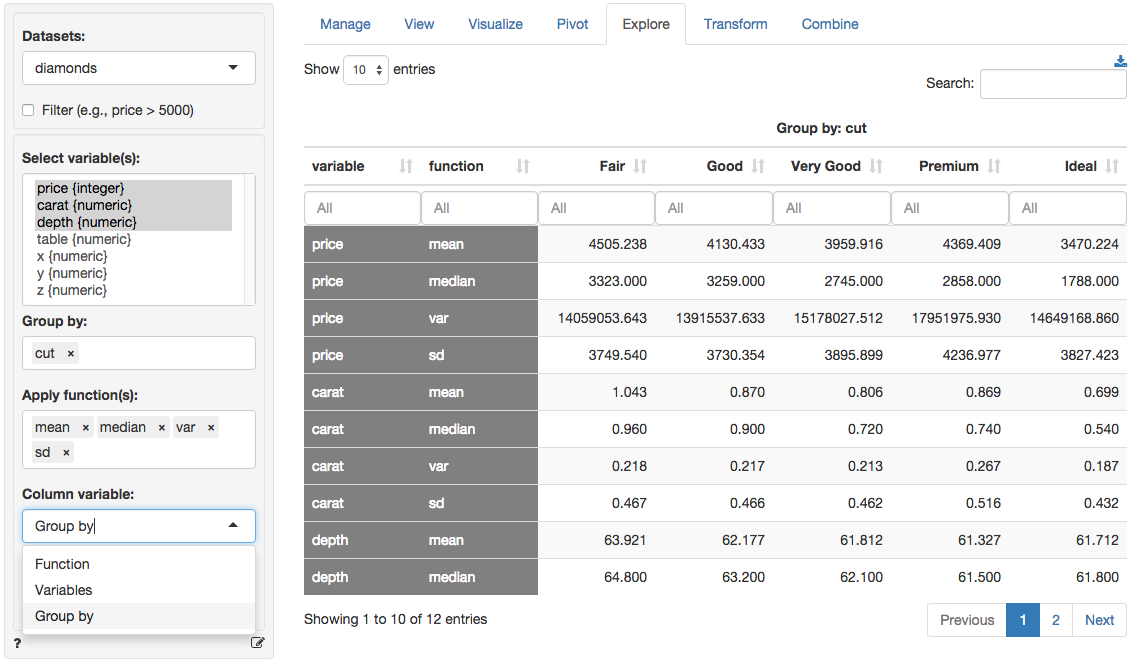
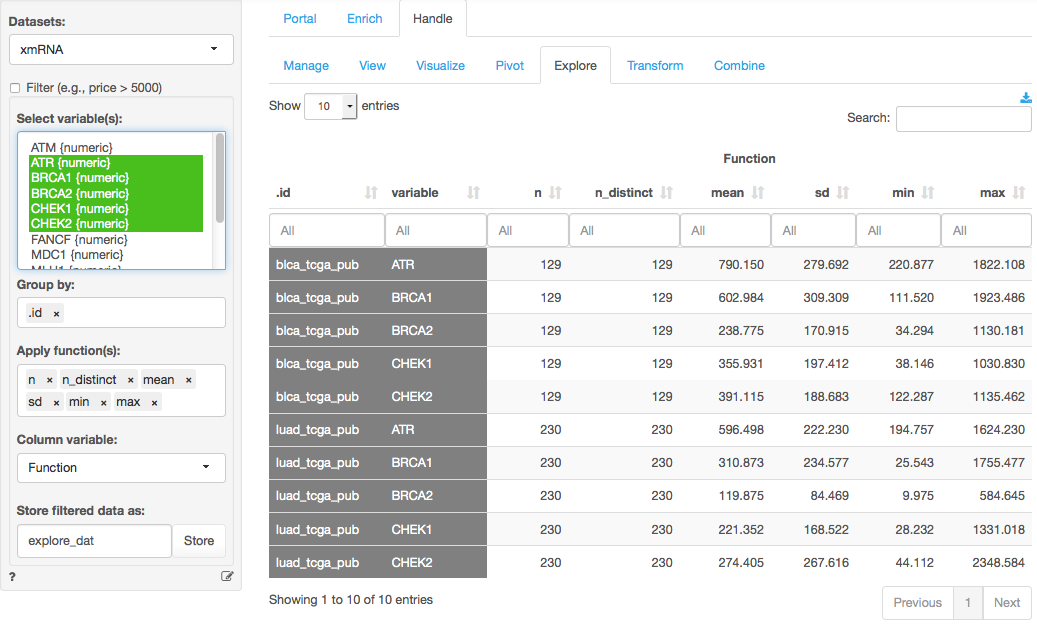
Documents

diff --git a/inst/base/tools/help/view.md b/inst/base/tools/help/view.md
@@ -2,7 +2,7 @@
 
 ### Datasets
 
-Choose one of the datasets from the `Datasets` dropdown. Files are loaded into Radiant through the Manage tab.
+Choose one of the datasets from the `Datasets` dropdown. Files are loaded into bioCancer through the Manage tab.
 
 ### Select columns
 
@@ -18,13 +18,11 @@ Click on a column header in the table to sort the data by the values of that var
 
 ### Filter
 
-There are several ways to select a subset of the data to view. The `Filter` box on the left (click the check-box first) can be used with `>` and `<` signs and you can also combine subset commands. For example, `x > 3 & y == 2` would show only those rows for which the variable `x` has values larger than 3 **and** for which `y` has values equal to 2. Note that in R, and most other programming languages, `=` is used to _assign_ a value and `==` to evaluate if the value of a variable is equal to some other value. In contrast `!=` is used to determine if a variable is _unequal_ to some value. You can also use expressions that have an **or** condition. For example, to select rows where `Salary` is smaller than \$100,000 and larger than \$20,000 use `Salary > 20000 & Salary < 100000`. `&` is the symbol for **and**. The table below gives an overview of common operators.
+There are several ways to select a subset of the data to view. The `Filter` box on the left (click the check-box first) can be used with `>` and `<` signs and you can also combine subset commands. For example, `x > 3 & y == 2` would show only those rows for which the variable `x` has values larger than 3 **and** for which `y` has values equal to 2. Note that in R, and most other programming languages, `=` is used to _assign_ a value and `==` to evaluate if the value of a variable is equal to some other value. In contrast `!=` is used to determine if a variable is _unequal_ to some value. You can also use expressions that have an **or** condition. For example, to select rows where `mutation frequency` is smaller than 20 and larger than 10 use `FreqMut > 10 & FreqMut < 20`. `&` is the symbol for **and**. The table below gives an overview of common operators.
 
-It is also possible to filter using dates. For example, to choose only those dates before June 1st, 2014 enter `Date < "2014-6-1"` into the filter box and press return.
+You can also use string matching to select rows. For example, type `grepl("lu", Diseases)` to select rows with `lung` Cancers. This search is case sensitive by default. For case insensitive search you would use `grepl("TCGA", name, ignore.case = TRUE)`. Type your statement in the `Filter`  box and press return to see the result on screen or an error below the box if the expression is invalid.
 
-You can also use string matching to select rows. For example, type `grepl("ood", cut)` to select rows with `Good` or `Very good` cut. This search is case sensitive by default. For case insensitive search you would use `grepl("GOOD", cut, ignore.case = TRUE)`. Type your statement in the `Filter`  box and press return to see the result on screen or an error below the box if the expression is invalid.
-
-It is important to note that these filters are _persistent_. A filter entered in one of the Data-tabs will also be applied to other tabs and to any analysis conducted through the Radiant menus. To deactivate a  filter uncheck the `Filter` check-box. To remove a filter simply erase it.
+It is important to note that these filters are _persistent_. A filter entered in one of the Data-tabs will also be applied to other tabs and to any analysis conducted through the bioCancer menus. To deactivate a  filter uncheck the `Filter` check-box. To remove a filter simply erase it.
 
 <table class='table table-condensed table-hover' style='width:30%;'>
  <thead>
@@ -71,10 +69,10 @@ It is important to note that these filters are _persistent_. A filter entered in
 
 ### Column filters and Search
 
-For variables that have a limited number of different values (i.e., a factor) you can select the levels to keep from the column filter below the variable name. For example, to filter on rows with ideal cut click in the box below the `cut` column header and select `Ideal` from the dropdown menu shown. You can also type a string into these column filters followed by return. Note that matching is case-insensitive. In fact, typing `eal` would produce the same result because the search will match any part of a string. Similarly, you can type a string to select observations for character variables (e.g., street names).
+For variables that have a limited number of different values (i.e., a factor) you can select the levels to keep from the column filter below the variable name. For example, to filter on rows with `CNA = -1`  click in the box below the `CNA` column header and select `-1` from the dropdown menu shown. You can also type a string into these column filters followed by return. Note that matching is case-insensitive. In fact, typing `1` would produce the same result because the search will match any part of a string. Similarly, you can type a string to select observations for character variables (e.g., street names).
 
-For numeric variables the column filter boxes have some special features that make them almost as powerful as the `Filter` box. For numerical and integer variables you can use `...` to indicate a range. For example, to select `Price` values between \$500 and \$2000 dollars type `500 ... 2000` and press return. The range is inclusive of the values typed. Furthermore, if we want to filter on `carat` `0.32 ...` will show only diamonds with carat values larger than or equal to 0.32. Numeric variables also have a slider that you can use to define the range of values to keep.
+For numeric variables the column filter boxes have some special features that make them almost as powerful as the `Filter` box. For numerical and integer variables you can use `...` to indicate a range. For example, to select `mRNA` values between 200 and 500  type `200 ... 500` and press return. The range is inclusive of the values typed. Furthermore, if we want to filter on `FreqMut` `20 ...` will show only Studies with mutation frequancy larger than or equal to 20. Numeric variables also have a slider that you can use to define the range of values to keep.
 
 If you want to get _really_ fancy you can use the search box on the top right to search across all columns in the data using **regular expressions**. For example, to find all rows that have an entry in _any_ column ending with the number 72 type `72$` (i.e., the `$` sign is used to indicate the end of an entry). For all rows with entries that start with 60 use `^60` (i.e., the `^` is used to indicate the first character in an entry). Regular expressions are incredibly powerful for search but this is a _big_ topic area. To learn more about regular expressions see this <a href="http://www.regular-expressions.info/tutorial.html" target="_blank">tutorial</a>.
 
-It is important to note that column sorting, column filters, and search are **not** persistent. To store these settings for use in other parts of Radiant press the `Store` button. You can store the data and settings under a different dataset name by changing the value in the text input to the left of the `Store` button. This feature can also be used to select a subset of variables to keep. Just select the ones you want to keep and press the `Store` button. For more control over the variables you want to keep or remove and to specify their order in the dataset use the `Data > Transform` tab.
+It is important to note that column sorting, column filters, and search are **not** persistent. To store these settings for use in other parts of bioCancer press the `Store` button. You can store the data and settings under a different dataset name by changing the value in the text input to the left of the `Store` button. This feature can also be used to select a subset of variables to keep. Just select the ones you want to keep and press the `Store` button. For more control over the variables you want to keep or remove and to specify their order in the dataset use the `Data > Transform` tab.

diff --git a/inst/base/tools/help/transform.md b/inst/base/tools/help/transform.md
@@ -1,4 +1,7 @@
-> Transform variables in data
+  robj <- load(file.path(r_path,"base/data/epiGenomics.rda"))
+  df <- get(robj)
+  r_data[["epiGenomics"]] <- df
+  r_data[["epiGenomics_descr"]] <- attr(df,'description')> Transform variables in data
 
 ### Transform command log
 
@@ -6,7 +9,7 @@ All transformations applied in the _Data > Transform_ tab can be _logged_. If, f
 
 <pre>
 ## transform variable
-r_data[["diamonds"]] <- mutate_each(r_data[["diamonds"]], funs(log), ext = "_log", price, carat)
+r_data[["epiGenomics"]] <- mutate_each(r_data[["epiGenomics"]], funs(log), ext = "_log", mRNA, Met450)
 </pre>
 
 This is an important feature if you need to recreate your results at some point in the future or you want to re-run a report with new, but similar, data. Even more important is that there is a record of the steps taken to generate all results.
@@ -19,7 +22,7 @@ Filter functionality must be turned off when transforming variables. If a filter
 
 ### Type
 
-When you select `Type` from the `Transformation type` drop-down another drop-down menu is shown that will allow you to change the type (or class) of one or more variables. For example, you can change a variable of type integer to a variable of type factor. Click the `Store` button to change variable(s) in the data set. A description of the transformations included in Radiant is provided below.
+When you select `Type` from the `Transformation type` drop-down another drop-down menu is shown that will allow you to change the type (or class) of one or more variables. For example, you can change a variable of type integer to a variable of type factor. Click the `Store` button to change variable(s) in the data set. A description of the transformations included in bioCancer is provided below.
 
 1. As factor: convert a variable to type factor (i.e., a categorical variable)
 2. As number: convert a variable to type numeric
@@ -42,7 +45,7 @@ When you select `Type` from the `Transformation type` drop-down another drop-dow
 
 ### Transform
 
-When you select `Transform` from the `Transformation type` drop-down another drop-down menu is shown that will allow you to apply common transformations to one or more variables in the data. For example, to take the (natural) log of a variable select the variable(s) you want to transform and choose `Log` from the `Apply function` drop-down. A new variable is created with the extension specified in the 'Variable name extension` text input (e.g,. `_log`). Make sure to press `return` after changing the extension. Click the `Store` button to add the variable(s) to the data set. A description of the transformation functions included in Radiant is provided below.
+When you select `Transform` from the `Transformation type` drop-down another drop-down menu is shown that will allow you to apply common transformations to one or more variables in the data. For example, to take the (natural) log of a variable select the variable(s) you want to transform and choose `Log` from the `Apply function` drop-down. A new variable is created with the extension specified in the 'Variable name extension` text input (e.g,. `_log`). Make sure to press `return` after changing the extension. Click the `Store` button to add the variable(s) to the data set. A description of the transformation functions included in bioCancer is provided below.
 
 1. Log: create a log-transformed version of the selected variable (i.e., log(x))
 2. Square: multiply a variable by itself (i.e., x^2)
@@ -148,13 +151,13 @@ Choose `Replace` from the `Transformation type` drop-down if you want to replace
 
 ### Clipboard
 
-It is possible to manipulate your data in a spreadsheet (e.g., Excel or Google sheets) and copy-and-paste the data back into Radiant. If you don't have the original data in a spreadsheet already use the clipboard feature in _Data > Manage_ so you can paste it into the spreadsheet or click the download icon on the top right of your screen in the _Data > View_ tab. Apply your transformations in the spreadsheet program and then copy the new variable(s), with a header label, to the clipboard (i.e., CTRL-C on windows and CMD-C on mac). Select `Clipboard` from the `Transformation type` drop-down and paste the new data into the `Paste from spreadsheet` box. It is key that new variable(s) have the same number of observations as the data in Radiant. To add the new variables to the data click `Store`.
+It is possible to manipulate your data in a spreadsheet (e.g., Excel or Google sheets) and copy-and-paste the data back into bioCancer. If you don't have the original data in a spreadsheet already use the clipboard feature in _Data > Manage_ so you can paste it into the spreadsheet or click the download icon on the top right of your screen in the _Data > View_ tab. Apply your transformations in the spreadsheet program and then copy the new variable(s), with a header label, to the clipboard (i.e., CTRL-C on windows and CMD-C on mac). Select `Clipboard` from the `Transformation type` drop-down and paste the new data into the `Paste from spreadsheet` box. It is key that new variable(s) have the same number of observations as the data in bioCancer. To add the new variables to the data click `Store`.
 
 > **Note:** Using the clipboard feature for data transformation is discouraged because it is not reproducible.
 
 ### Normalize
 
-Choose `Normalize` from the `Transformation type` drop-down to standardize one or more variables. For example, in the diamonds data we may want to express price of a diamond per-carat. Select `carat` as the normalizing variable and `price` in the `Select variable(s)` box. You will see summary statistics for the new variable (e.g., `price_carat`) in the main panel. Store changes by clicking the `Store` button.
+Choose `Normalize` from the `Transformation type` drop-down to standardize one or more variables. For example, in the epiGenomics data we may want to express mRNA of a Genes per-FreqMut. Select `FreqMut` as the normalizing variable and `mRNA` in the `Select variable(s)` box. You will see summary statistics for the new variable (e.g., `mRNA_FreqMut`) in the main panel. Store changes by clicking the `Store` button.
 
 ### Reorder or remove columns
 
@@ -174,4 +177,4 @@ It is common to have one or more variables in a dataset that have only unique va
 
 ### Show duplicates
 
-If there are duplicates in the data use `Show duplicates` to get a better sense for the data points that have the same value in multiple rows. If you want to explore duplicates using the _View_ tab make sure to `Store` them in a different dataset (i.e., make sure **not** to overwrite the data you are working on). If you choose to show duplicates based on all columns in the data only one of the duplicate rows will be shown. These rows are **exactly** the same so showing 2 or 3 isn't helpful. If, however, we look for duplicates based on a subset of the available variables Radiant will generate a dataset with **all** rows that are deemed similar.
+If there are duplicates in the data use `Show duplicates` to get a better sense for the data points that have the same value in multiple rows. If you want to explore duplicates using the _View_ tab make sure to `Store` them in a different dataset (i.e., make sure **not** to overwrite the data you are working on). If you choose to show duplicates based on all columns in the data only one of the duplicate rows will be shown. These rows are **exactly** the same so showing 2 or 3 isn't helpful. If, however, we look for duplicates based on a subset of the available variables bioCancer will generate a dataset with **all** rows that are deemed similar.

diff --git a/inst/base/tools/help/pivotr.md b/inst/base/tools/help/pivotr.md
@@ -2,9 +2,9 @@
 
 If you have used pivot-tables in Excel the functionality provided in the Pivot tab should be familiar to you. Similar to the Explore tab, you can generate summary statistics for variables in your data. You can also easily generate frequency tables. Perhaps the most powerful feature in Pivot is that you can describe the data _by_ one or more other variables.
 
-For example, with the `diamonds` data select `clarity` and `cut` from the Categorical variables drop-down. You can drag-and-drop the selected variables to change their order. The categories for the first variable will be the column headers. After selecting these two variables a frequency table of diamonds with different levels of clarity and quality of cut. Choose `Row`, `Column`, or `Total` from the Normalize drop-down to normalize the frequencies by row, column, or overall total. If a normalize option is selected it can be convenient to check the `Percentage` box to express the numbers as percentages. Choose `Color bar` or `Heat map` from the Conditional formatting drop-down to emphasize the highest frequency counts.
+For example, with the `epiGenomics` data select `Genes`, `Diseases` and `CNA`  from the Categorical variables drop-down. You can drag-and-drop the selected variables to change their order. The categories for the first variable will be the column headers. After selecting these three variables a frequency table of  data with different Diseases and Genes. Choose `Row`, `Column`, or `Total` from the Normalize drop-down to normalize the frequencies by row, column, or overall total. If a normalize option is selected it can be convenient to check the `Percentage` box to express the numbers as percentages. Choose `Color bar` or `Heat map` from the Conditional formatting drop-down to emphasize the highest frequency counts.
 
-It is also possible to summarize numerical variables. Select `price` from the Numerical variables drop-down. This will create the table shown below. Just as in the View tab you can sort the table by clicking on the column headers. You can also use sliders (e.g., click in the input box below `I1`) to limit the view to values in a specified range. To view only information for diamonds with `Fair` or `Good` cut quality click in the input box below the `cut` header.
+It is also possible to summarize numerical variables. Select `FreqMut` from the Numerical variables drop-down. This will create the table shown below. Just as in the View tab you can sort the table by clicking on the column headers. You can also use sliders (e.g., click in the input box below `I1`) to limit the view to values in a specified range. To view only information for `CNA` with `0` or `-1` levels click in the input box below the `CNA` header.
 
 ![pivotr table](figures/pivotr.png)
 

diff --git a/inst/base/tools/help/visualize.md b/inst/base/tools/help/visualize.md
@@ -6,7 +6,7 @@ Use the `Filter` box to select (or omit) specific sets of rows from the data. Se
 
 ### Plot-type
 
-Select the plot type you want. Choose histograms or density for one or more single variable plots. For example, with the `diamonds` data loaded select `Histogram` and all (X) variables (use CTRL-a or CMD-a). This will create histograms for all variables in your dataset. Scatter plots are used to visualize the relationship between two variables. Select one or more variables to plot on the Y-axis and one or more variables to plot on the X-axis. Line plots are similar to scatter plots but they connect-the-dots and are particularly useful for time-series data. Bar plots are used to show the relationship between a categorical variable (X-axis) and the average value of a numeric variable (Y-axis). Box-plots are also used when you have a numeric Y-variable and a categorical X-variable. They are more informative than bar charts but also require a bit more effort to evaluate.
+Select the plot type you want. Choose histograms or density for one or more single variable plots. For example, with the `epiGenomics` data loaded select `Histogram` and all (X) variables (use CTRL-a or CMD-a). This will create histograms for all variables in your dataset. Scatter plots are used to visualize the relationship between two variables. Select one or more variables to plot on the Y-axis and one or more variables to plot on the X-axis. Line plots are similar to scatter plots but they connect-the-dots and are particularly useful for time-series data. Bar plots are used to show the relationship between a categorical variable (X-axis) and the average value of a numeric variable (Y-axis). Box-plots are also used when you have a numeric Y-variable and a categorical X-variable. They are more informative than bar charts but also require a bit more effort to evaluate.
 
 ### Box plots
 

diff --git a/inst/base/tools/help/explore.md b/inst/base/tools/help/explore.md
@@ -2,11 +2,11 @@
 
 Generate summary statistics for one or more variables in your data. The most powerful feature in Explore is that you can easy describe the data _by_ one or more other variables. Where the _Pivot_ tab works best for frequency tables and to summarize a single numerical variable, the _Explore_ tab allows you to summarize multiple variables at the same time using various statistics.
 
-For example, if we select `price` from the `diamonds` dataset we can see the number of observations (n), the mean, the median, etc. etc. However,  the mean price for each clarity level of the diamond can also be easily provided by choosing `clarity` as the Group by variable.
+For example, if we select `Genes` from the `xmRNA` dataset we can see the number of observations (n), the mean, the median, etc. etc.
 
-The created summary table can be stored in Radiant by clicking the `Store` button. This can be useful if you want to create plots using the summarized data. To download the table to _csv_ format click the download icon on the top-right.
+The created summary table can be stored in bioCancer by clicking the `Store` button. This can be useful if you want to create plots using the summarized data. To download the table to _csv_ format click the download icon on the top-right.
 
-You can select options from `Column variable` dropdown to switch between different column headers. Select either the `functions` (e.g., mean, median, etc), the variables (e.g., price, carat, etc), or the levels of the (first) `Group by` variable (e.g., Fair-Ideal).
+You can select options from `Column variable` dropdown to switch between different column headers. Select either the `functions` (e.g., mean, median, etc), the variables (e.g., Genes), or the levels of the (first) `Group by` variable (e.g., Studies).
 
 ![explore table](figures/explore.png)
 
